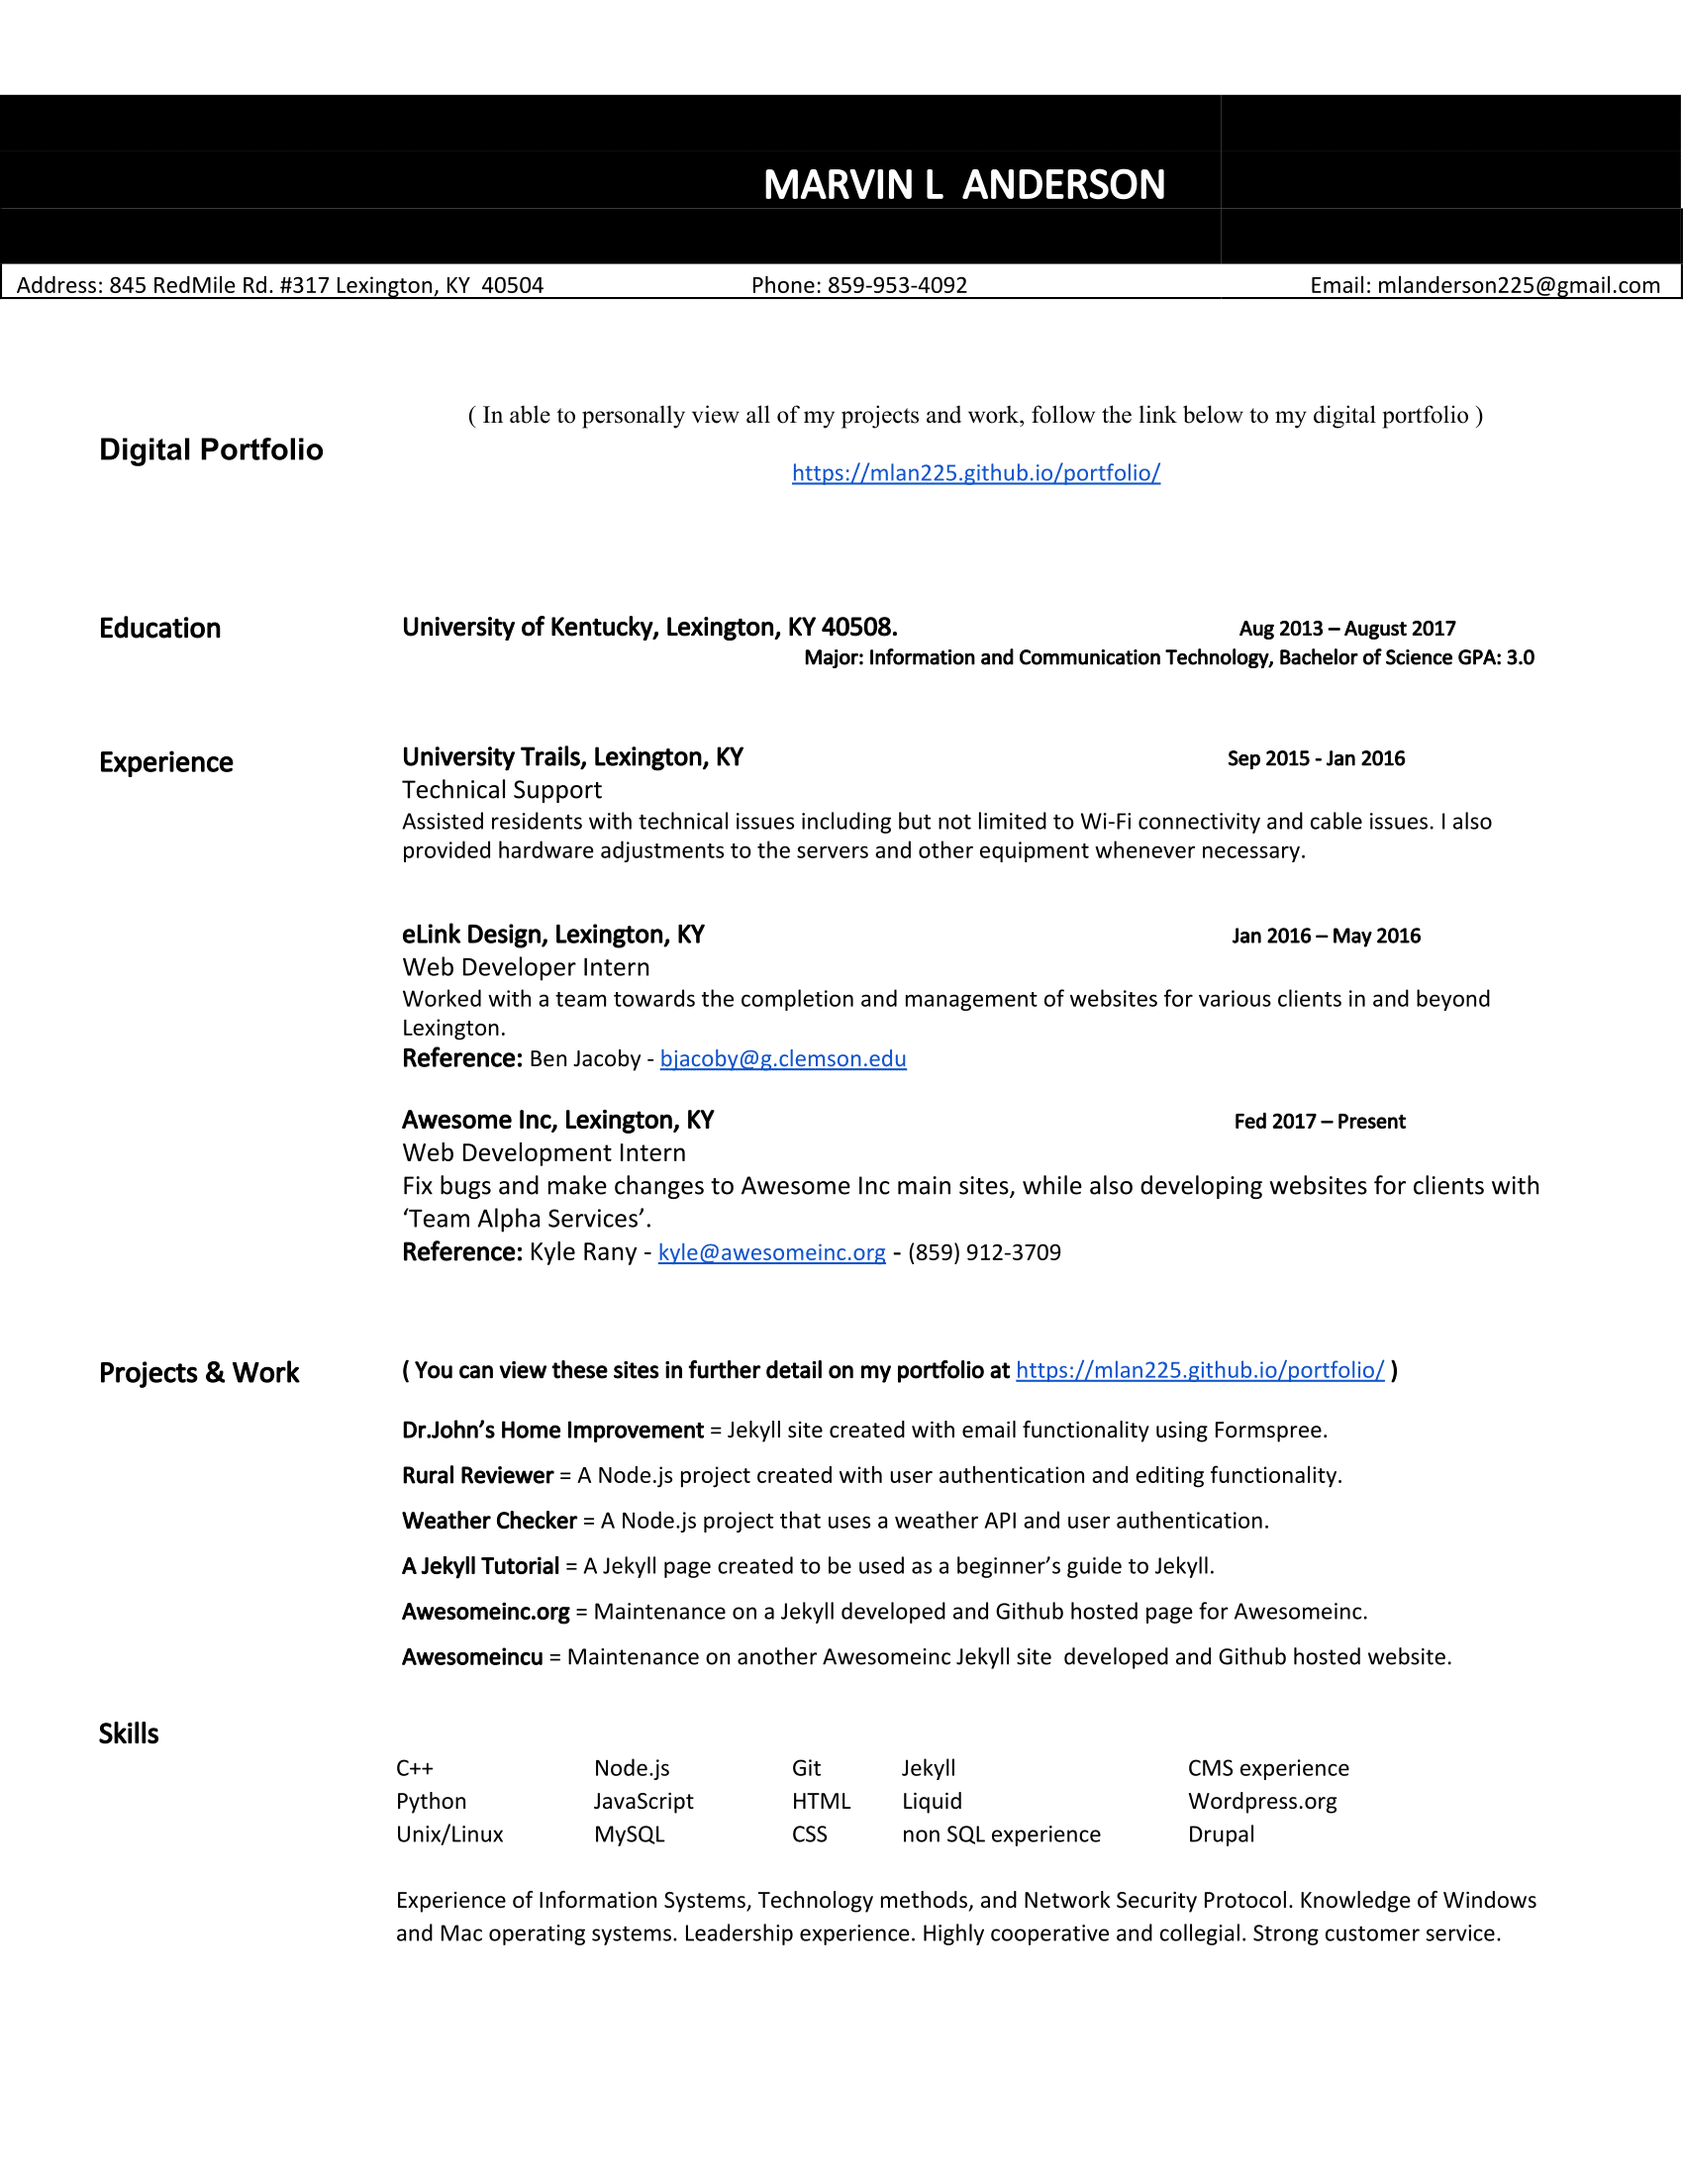
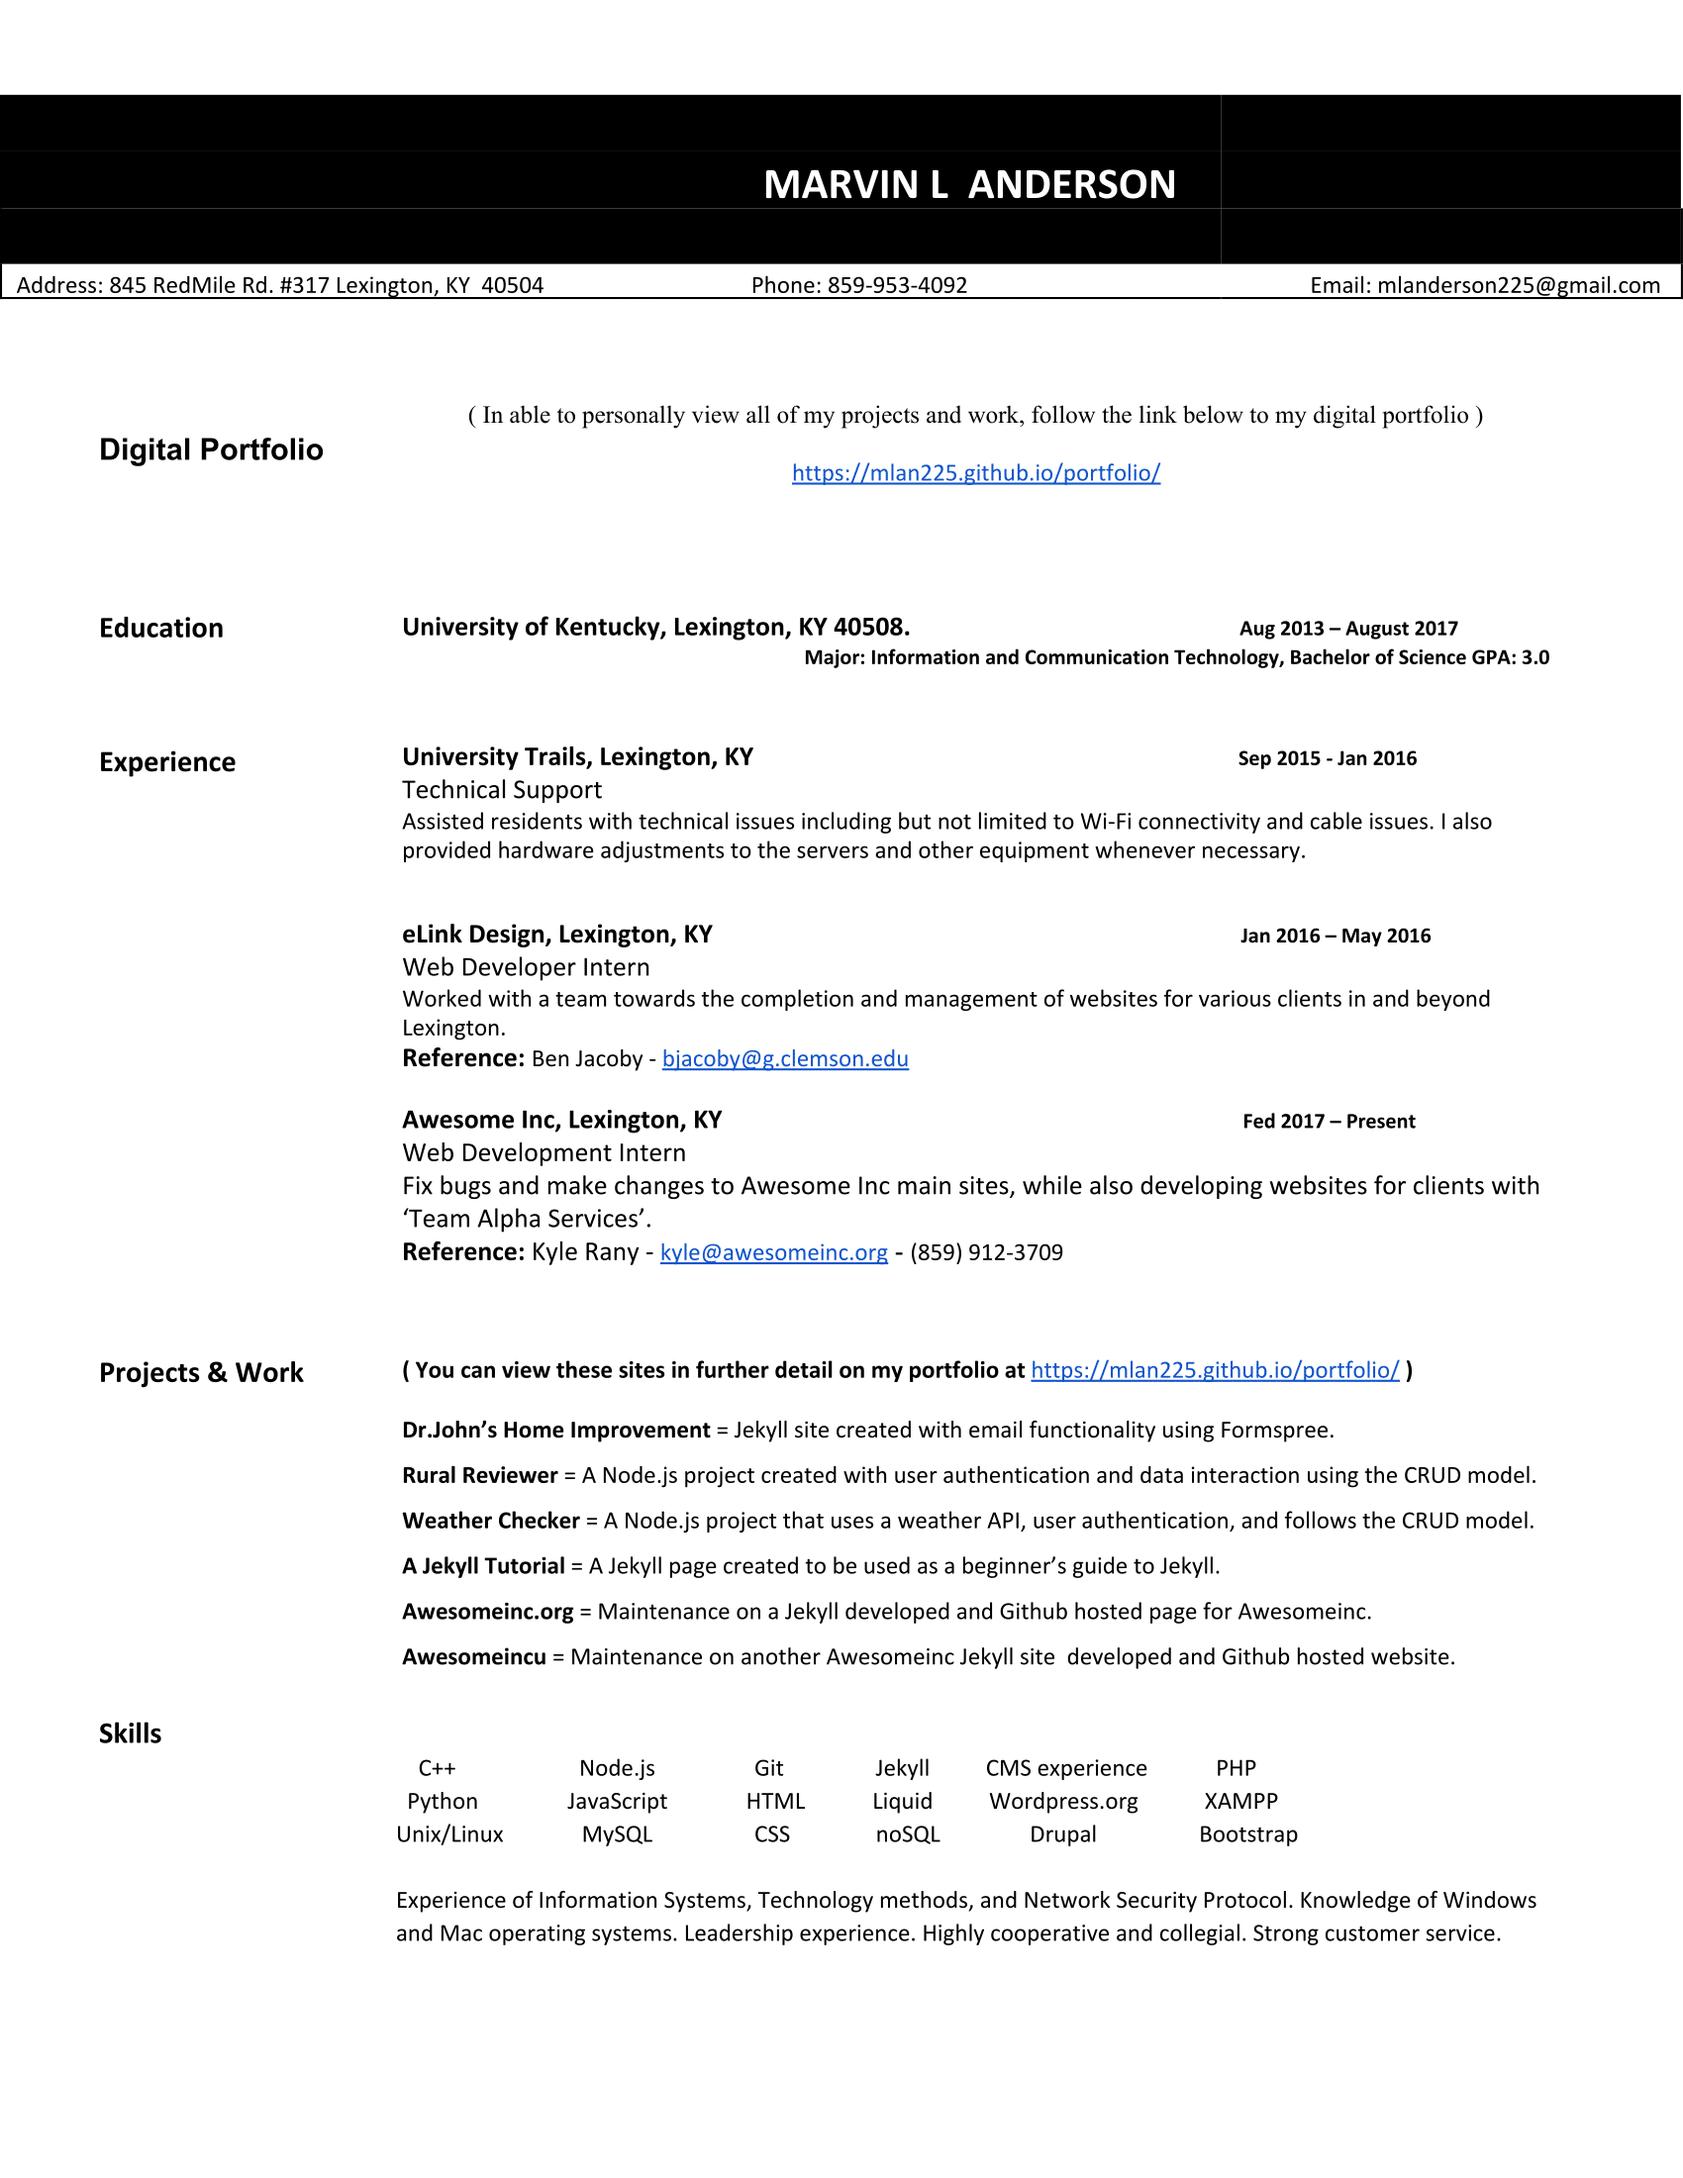
added php, xampp, and bootstrap to skills and uploaded an updated resume

diff --git a/skills.html b/skills.html
@@ -64,6 +64,7 @@ title: Skills
 		    <div class="col-lg-4" id="Languages">
 		        <p>HTML</p>
 		        <p>CSS</p>
+		        <p>Bootstrap</p>
 		        <p>JavaScript</p>
 		        <p>C++</p>
 		        <p>Node.js</p>
@@ -76,6 +77,7 @@ title: Skills
 		        <p>mySQL</p>
 		        <p>Git</p>
 		        <p>Jekyll</p>
+		        <p>XAMPP</p>
 		     </div>
 
 
@@ -84,6 +86,7 @@ title: Skills
 		        <p>CMS experience</p>
 		        <p>Wordpress.org</p>
 		      	<p>Drupal</p>
+		      	<p>PHP</p>
 		     </div>
 
 
